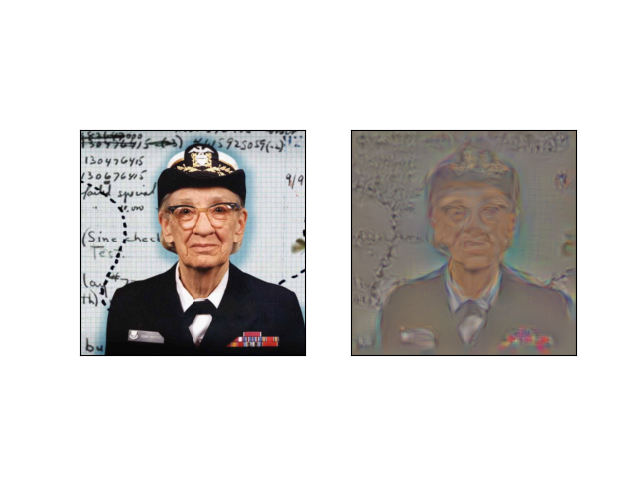
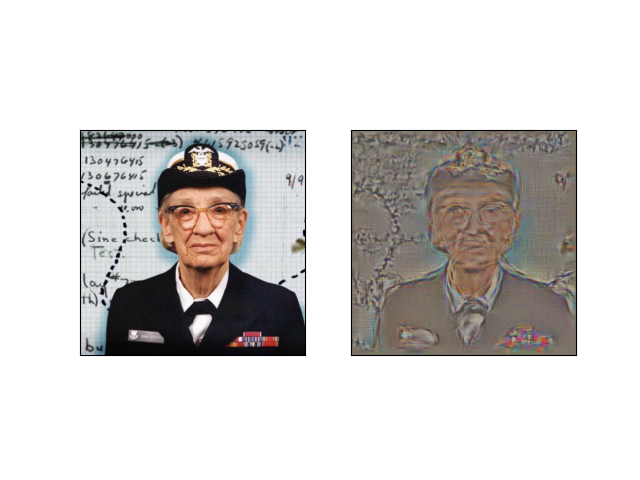
new

diff --git a/invert.py b/invert.py
@@ -177,7 +177,7 @@ if __name__ == '__main__':
         parser.add_argument('--alpha', type=float, default=6.)
         parser.add_argument('--beta', type=float, default=2.)
         parser.add_argument('--alpha_lambda', type=float, default=1e-5)
-        parser.add_argument('--tv_lambda', type=float, default=1e-4)
+        parser.add_argument('--tv_lambda', type=float, default=1e-5)
         parser.add_argument('--epochs', type=int, default=200)
         parser.add_argument('--learning_rate', type=int, default=1e2)
         parser.add_argument('--momentum', type=float, default=0.9)
